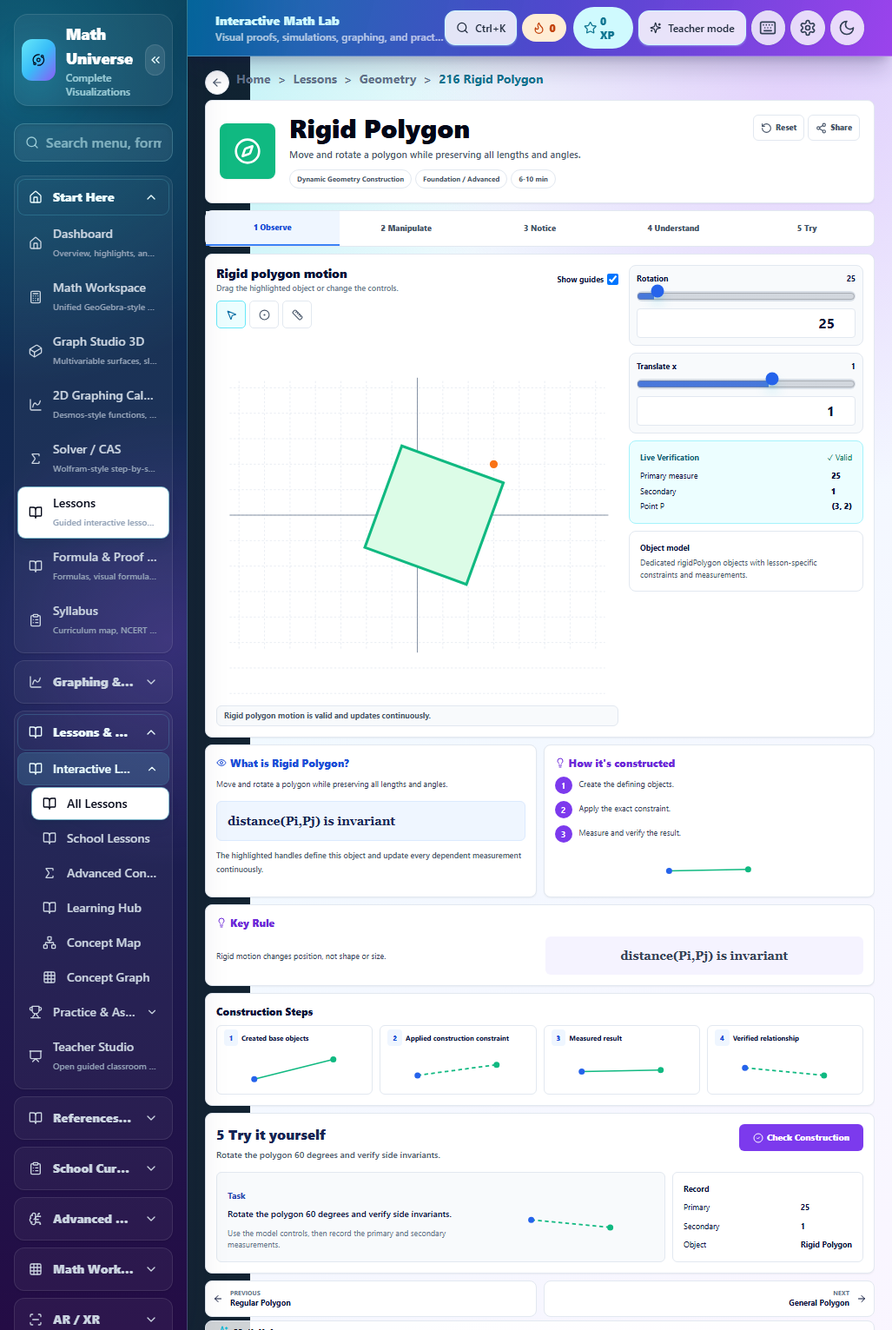
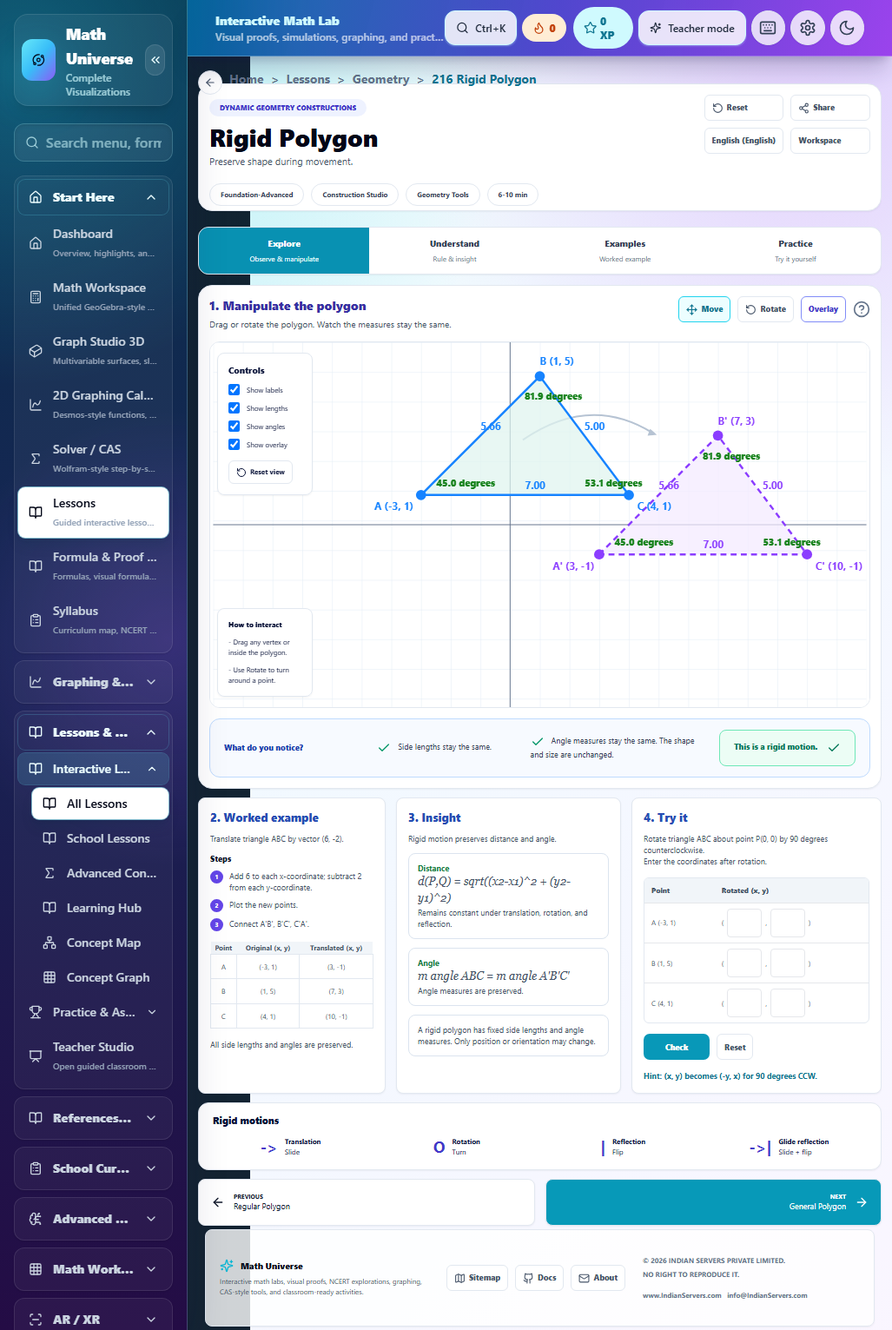
Rebuild rigid polygon lesson to match target UI

diff --git a/src/modules/lessons/adapters/RigidPolygonTargetLesson216.tsx b/src/modules/lessons/adapters/RigidPolygonTargetLesson216.tsx
@@ -1,0 +1,149 @@
+import {
+  ArrowLeft,
+  ArrowRight,
+  Check,
+  CircleHelp,
+  Move,
+  RotateCcw,
+  Share2,
+} from "lucide-react";
+import {
+  useEffect,
+  useMemo,
+  useState,
+  type PointerEvent as ReactPointerEvent,
+} from "react";
+import type { LessonAdapterProps } from "../types";
+
+type Point = { x: number; y: number };
+type Mode = "move" | "rotate";
+type Visibility = { labels: boolean; lengths: boolean; angles: boolean; overlay: boolean };
+type Drag = { start: Point; origin: Point; angle: number } | null;
+
+const original: Point[] = [{ x: -3, y: 1 }, { x: 1, y: 5 }, { x: 4, y: 1 }];
+const names = ["A", "B", "C"];
+const initialVisibility: Visibility = { labels: true, lengths: true, angles: true, overlay: true };
+
+export default function RigidPolygonTargetLesson216({ resetToken, onInteraction }: LessonAdapterProps) {
+  const [position, setPosition] = useState<Point>({ x: 0, y: 0 });
+  const [rotation, setRotation] = useState(0);
+  const [mode, setMode] = useState<Mode>("move");
+  const [visibility, setVisibility] = useState(initialVisibility);
+  const [drag, setDrag] = useState<Drag>(null);
+  const [answers, setAnswers] = useState(["", "", "", "", "", ""]);
+  const [feedback, setFeedback] = useState<"idle" | "correct" | "incorrect">("idle");
+
+  const model = useMemo(() => buildModel(position, rotation), [position, rotation]);
+  const reset = () => {
+    setPosition({ x: 0, y: 0 }); setRotation(0); setMode("move");
+    setVisibility(initialVisibility); setAnswers(["", "", "", "", "", ""]); setFeedback("idle"); onInteraction();
+  };
+  useEffect(() => {
+    setPosition({ x: 0, y: 0 }); setRotation(0); setMode("move");
+    setVisibility(initialVisibility); setAnswers(["", "", "", "", "", ""]); setFeedback("idle");
+  }, [resetToken]);
+
+  const toggle = (key: keyof Visibility) => { setVisibility((value) => ({ ...value, [key]: !value[key] })); onInteraction(); };
+  const check = () => {
+    const expected = [-1, -3, -5, 1, -1, 4];
+    setFeedback(answers.every((value, index) => Number(value) === expected[index]) ? "correct" : "incorrect");
+    onInteraction();
+  };
+
+  return <section
+    className="space-y-3"
+    style={{ marginTop: -25 }}
+    data-testid="dynamic-geometry-mockup-0273"
+    data-dedicated-lesson="216"
+    data-object-model="rigid-triangle-motion"
+    data-direct-interaction="true"
+    aria-label="Rigid Polygon dedicated interactive geometry model"
+  >
+    <span className="sr-only">Live Verification. Check Construction.</span>
+    <header className="h-[147px] rounded-2xl border border-slate-200 bg-white p-3 shadow-sm">
+      <div className="grid gap-4 lg:grid-cols-[1fr_auto]">
+        <div>
+          <p className="inline-block rounded-full bg-indigo-50 px-3 py-1 text-[8px] font-black uppercase text-indigo-700">Dynamic Geometry Constructions</p>
+          <h1 className="mt-2 text-[28px] font-black leading-8 text-slate-950">Rigid Polygon</h1>
+          <p className="mt-1 text-[11px] text-slate-600">Preserve shape during movement.</p>
+          <div className="mt-4 flex flex-wrap gap-2 text-[8px] font-bold text-slate-700">
+            {['Foundation-Advanced', 'Construction Studio', 'Geometry Tools', '6-10 min'].map((item) => <span key={item} className="rounded-full border border-slate-200 px-3 py-1.5">{item}</span>)}
+          </div>
+        </div>
+        <div className="grid grid-cols-2 content-start gap-2 text-[9px]">
+          <button type="button" className="target-geometry-action" onClick={reset}><RotateCcw />Reset</button>
+          <button type="button" className="target-geometry-action" onClick={() => { void navigator.clipboard?.writeText(location.href); onInteraction(); }}><Share2 />Share</button>
+          <button type="button" className="target-geometry-action">English (English)</button>
+          <a className="target-geometry-action" href="/workspace/geometry">Workspace</a>
+        </div>
+      </div>
+    </header>
+
+    <nav className="grid grid-cols-4 overflow-hidden rounded-xl border border-slate-200 bg-white shadow-sm" style={{ marginTop: 18 }}>
+      {[['Explore','Observe & manipulate'], ['Understand','Rule & insight'], ['Examples','Worked example'], ['Practice','Try it yourself']].map(([label, sub], index) => <button key={label} type="button" className={`h-[53px] text-[10px] font-black ${index === 0 ? 'bg-cyan-600 text-white' : 'text-slate-700'}`} onClick={() => { document.getElementById(`rigid-${index}`)?.scrollIntoView({ behavior: 'smooth', block: 'center' }); onInteraction(); }}><span className="block">{label}</span><span className={`mt-1 block text-[8px] font-normal ${index === 0 ? 'text-cyan-50' : 'text-slate-500'}`}>{sub}</span></button>)}
+    </nav>
+
+    <section id="rigid-0" className="rounded-2xl border border-slate-200 bg-white p-3 shadow-sm">
+      <div className="flex flex-wrap items-start justify-between gap-3">
+        <div><h2 className="text-[14px] font-black text-indigo-800">1. Manipulate the polygon</h2><p className="mt-1 text-[10px] text-slate-600">Drag or rotate the polygon. Watch the measures stay the same.</p></div>
+        <div className="flex items-center gap-2">
+          <ModeButton active={mode === 'move'} icon={<Move />} label="Move" onClick={() => setMode('move')} />
+          <ModeButton active={mode === 'rotate'} icon={<RotateCcw />} label="Rotate" onClick={() => setMode('rotate')} />
+          <button type="button" aria-pressed={visibility.overlay} className={`target-geometry-action ${visibility.overlay ? '!border-indigo-400 !text-indigo-700' : ''}`} onClick={() => toggle('overlay')}>Overlay</button>
+          <CircleHelp className="h-5 w-5 text-slate-500" />
+        </div>
+      </div>
+      <div className="relative mt-3 overflow-hidden rounded-xl border border-slate-200">
+        <div className="absolute left-2 top-3 z-10 w-[110px] rounded-lg border border-slate-200 bg-white/95 p-3 text-[8px] shadow-sm">
+          <p className="mb-2 text-[10px] font-black">Controls</p>
+          {([['labels','Show labels'], ['lengths','Show lengths'], ['angles','Show angles'], ['overlay','Show overlay']] as const).map(([key,label]) => <label key={key} className="mb-2 flex items-center gap-2"><input type="checkbox" checked={visibility[key]} onChange={() => toggle(key)} />{label}</label>)}
+          <button type="button" className="mt-1 rounded-md border border-slate-200 px-2 py-1.5 font-bold" onClick={reset}><RotateCcw className="mr-1 inline h-3 w-3" />Reset view</button>
+        </div>
+        <div className="absolute bottom-3 left-2 z-10 w-[110px] rounded-lg border border-slate-200 bg-white/95 p-3 text-[8px] shadow-sm">
+          <p className="font-black">How to interact</p><p className="mt-2">- Drag any vertex or inside the polygon.</p><p className="mt-2">- Use Rotate to turn around a point.</p>
+        </div>
+        <RigidCanvas model={model} visibility={visibility} mode={mode} drag={drag} onDrag={setDrag} onPosition={(point) => { setPosition(point); onInteraction(); }} onRotation={(angle) => { setRotation(angle); onInteraction(); }} />
+      </div>
+      <div className="mt-3 grid items-center gap-3 rounded-xl border border-blue-200 bg-blue-50/50 px-4 py-3 text-[9px] lg:grid-cols-[1fr_1fr_1.25fr_auto]">
+        <p className="font-black text-blue-800">What do you notice?</p><Invariant>Side lengths stay the same.</Invariant><Invariant>Angle measures stay the same. The shape and size are unchanged.</Invariant><p className="rounded-lg border border-emerald-300 bg-emerald-50 px-4 py-3 font-black text-emerald-700">This is a rigid motion. <Check className="ml-2 inline h-4 w-4" /></p>
+      </div>
+    </section>
+
+    <section className="grid gap-3 lg:grid-cols-[.9fr_1.08fr_1.2fr]" style={{ marginTop: 10 }}>
+      <article id="rigid-2" className="target-rigid-card"><h2>2. Worked example</h2><p>Translate triangle ABC by vector (6, -2).</p><h3>Steps</h3>{['Add 6 to each x-coordinate; subtract 2 from each y-coordinate.', 'Plot the new points.', "Connect A'B', B'C', C'A'."].map((step,index) => <p key={step} className="target-rigid-step"><b>{index+1}</b>{step}</p>)}<CoordinateTable /><p>All side lengths and angles are preserved.</p></article>
+      <article id="rigid-1" className="target-rigid-card"><h2>3. Insight</h2><p>Rigid motion preserves distance and angle.</p><div className="target-rigid-rule"><b>Distance</b><p className="font-serif text-[13px] italic">d(P,Q) = sqrt((x2-x1)^2 + (y2-y1)^2)</p><p>Remains constant under translation, rotation, and reflection.</p></div><div className="target-rigid-rule"><b>Angle</b><p className="font-serif text-[13px] italic">m angle ABC = m angle A'B'C'</p><p>Angle measures are preserved.</p></div><p className="target-rigid-rule">A rigid polygon has fixed side lengths and angle measures. Only position or orientation may change.</p></article>
+      <article id="rigid-3" className="target-rigid-card"><h2>4. Try it</h2><p>Rotate triangle ABC about point P(0, 0) by 90 degrees counterclockwise.</p><p>Enter the coordinates after rotation.</p><PracticeTable answers={answers} onChange={(index,value) => { setAnswers((current) => current.map((item,i) => i === index ? value : item)); setFeedback('idle'); onInteraction(); }} /><div className="flex gap-2"><button type="button" className="target-rigid-check" onClick={check}>Check</button><button type="button" className="target-geometry-action" onClick={() => { setAnswers(["", "", "", "", "", ""]); setFeedback('idle'); onInteraction(); }}>Reset</button></div><p className="mt-3 font-bold text-cyan-700">Hint: (x, y) becomes (-y, x) for 90 degrees CCW.</p>{feedback !== 'idle' && <p role="status" className={`mt-2 font-black ${feedback === 'correct' ? 'text-emerald-700' : 'text-rose-700'}`}>{feedback === 'correct' ? 'Correct rigid rotation.' : 'Check each coordinate pair.'}</p>}</article>
+    </section>
+
+    <section className="rounded-xl border border-slate-200 bg-white px-4 py-3 shadow-sm" style={{ marginTop: 10 }}><h2 className="text-[11px] font-black">Rigid motions</h2><div className="mt-2 grid grid-cols-4 gap-3 text-[8px]"><Motion name="Translation" hint="Slide" mark="->"/><Motion name="Rotation" hint="Turn" mark="O"/><Motion name="Reflection" hint="Flip" mark="|"/><Motion name="Glide reflection" hint="Slide + flip" mark="->|"/></div></section>
+    <nav className="grid grid-cols-2 gap-3" style={{ marginTop: 10 }} aria-label="Adjacent lessons"><a className="target-rigid-nav" href="/lessons/geometry/215-regular-polygon"><ArrowLeft /> <span><b>Previous</b>Regular Polygon</span></a><a className="target-rigid-nav is-next justify-end text-right" href="/lessons/geometry/217-general-polygon"><span><b>Next</b>General Polygon</span><ArrowRight /></a></nav>
+  </section>;
+}
+
+function RigidCanvas({ model, visibility, mode, drag, onDrag, onPosition, onRotation }: { model: ReturnType<typeof buildModel>; visibility: Visibility; mode: Mode; drag: Drag; onDrag: (drag: Drag) => void; onPosition: (point: Point) => void; onRotation: (angle: number) => void }) {
+  const domain = (event: ReactPointerEvent<SVGSVGElement>): Point => { const box = event.currentTarget.getBoundingClientRect(); return { x: -10 + ((event.clientX-box.left)/box.width)*22, y: 8 - ((event.clientY-box.top)/box.height)*15 }; };
+  const start = (event: ReactPointerEvent<SVGElement>) => { event.stopPropagation(); const plane = event.currentTarget.ownerSVGElement!; const p = domain({ ...event, currentTarget: plane } as ReactPointerEvent<SVGSVGElement>); plane.setPointerCapture(event.pointerId); onDrag({ start: p, origin: model.position, angle: model.rotation }); };
+  const move = (event: ReactPointerEvent<SVGSVGElement>) => { if (!drag) return; const p = domain(event); if (mode === 'move') onPosition({ x: drag.origin.x+p.x-drag.start.x, y: drag.origin.y+p.y-drag.start.y }); else { const c = model.centroid; const a0 = Math.atan2(drag.start.y-c.y, drag.start.x-c.x); const a1 = Math.atan2(p.y-c.y,p.x-c.x); onRotation(drag.angle+(a1-a0)*180/Math.PI); } };
+  return <svg className="h-[420px] w-full touch-none bg-white" viewBox="0 0 770 430" role="img" aria-label="Interactive rigid triangle plane with movable original and translated overlay" onPointerMove={move} onPointerUp={() => onDrag(null)} onPointerCancel={() => onDrag(null)}>
+    <defs><pattern id="rigid-grid" width="35" height="35" patternUnits="userSpaceOnUse"><path d="M35 0H0V35" fill="none" stroke="#e1ebf5" /></pattern></defs><rect width="770" height="430" fill="url(#rigid-grid)"/><line x1="0" y1="215" x2="770" y2="215" stroke="#64748b"/><line x1="350" y1="0" x2="350" y2="430" stroke="#64748b"/>
+    {visibility.overlay && <><path d="M365 115 Q445 60 520 108" fill="none" stroke="#b6c3d3" strokeWidth="2"/><path d="M515 102l8 7-11 1" fill="#b6c3d3"/><Triangle points={model.overlay} color="#8b3dff" fill="#f4eaff" dashed visibility={visibility} names={names.map(n => `${n}'`)} /></>}
+    <Triangle points={model.points} color="#1683ff" fill="#dff4ef" visibility={visibility} names={names} onPointerDown={start} />
+  </svg>;
+}
+
+function Triangle({ points, color, fill, dashed=false, visibility, names, onPointerDown }: { points: Point[]; color: string; fill: string; dashed?: boolean; visibility: Visibility; names: string[]; onPointerDown?: (event: ReactPointerEvent<SVGElement>) => void }) {
+  const px = (p: Point) => ({ x: 350+p.x*35, y: 215-p.y*35 }); const screen = points.map(px); const lengths = points.map((point,index) => distance(point, points[(index+1)%3])); const angles = points.map((point,index) => angle(points[(index+2)%3], point, points[(index+1)%3]));
+  return <g><polygon data-testid={dashed ? 'rigid-overlay-polygon' : 'rigid-original-polygon'} data-side-lengths={lengths.map(value => value.toFixed(4)).join(',')} points={screen.map(p => `${p.x},${p.y}`).join(' ')} fill={fill} fillOpacity=".72" stroke={color} strokeWidth="2.5" strokeDasharray={dashed ? '7 5' : undefined} className="cursor-move" onPointerDown={onPointerDown}/>{screen.map((p,index) => <g key={names[index]}><circle data-testid={!dashed ? `rigid-vertex-${names[index].toLowerCase()}` : undefined} cx={p.x} cy={p.y} r="6" fill={color} className="cursor-move" onPointerDown={onPointerDown}/>{visibility.labels && <text x={p.x+(index===1?0:index===0?-55:10)} y={p.y+(index===1?-13:18)} fontSize="12" fontWeight="700" fill={color}>{names[index]} ({format(points[index].x)}, {format(points[index].y)})</text>}{visibility.lengths && <text x={(p.x+screen[(index+1)%3].x)/2} y={(p.y+screen[(index+1)%3].y)/2-7} fontSize="12" fontWeight="700" fill={color}>{lengths[index].toFixed(2)}</text>}{visibility.angles && <text x={p.x+(index===1?-18:index===0?18:-52)} y={p.y+(index===1?28:-10)} fontSize="11" fontWeight="800" fill="#18831d">{angles[index].toFixed(1)} degrees</text>}</g>)}</g>;
+}
+
+function buildModel(position: Point, rotation: number) { const centroid0 = centroid(original); const points = original.map((p) => { const r = rotate(p,centroid0,rotation); return { x:r.x+position.x,y:r.y+position.y }; }); return { points, overlay: points.map(p => ({ x:p.x+6,y:p.y-2 })), position, rotation, centroid: centroid(points) }; }
+function rotate(point: Point, center: Point, degrees: number): Point { const r=degrees*Math.PI/180, x=point.x-center.x, y=point.y-center.y; return { x:center.x+x*Math.cos(r)-y*Math.sin(r), y:center.y+x*Math.sin(r)+y*Math.cos(r) }; }
+function centroid(points: Point[]): Point { return { x:points.reduce((s,p)=>s+p.x,0)/points.length, y:points.reduce((s,p)=>s+p.y,0)/points.length }; }
+function distance(a:Point,b:Point){return Math.hypot(b.x-a.x,b.y-a.y)}
+function angle(a:Point,b:Point,c:Point){const u={x:a.x-b.x,y:a.y-b.y},v={x:c.x-b.x,y:c.y-b.y}; return Math.acos(Math.max(-1,Math.min(1,(u.x*v.x+u.y*v.y)/(Math.hypot(u.x,u.y)*Math.hypot(v.x,v.y)))))*180/Math.PI}
+function format(value:number){return Number(value.toFixed(1)).toString()}
+function ModeButton({ active, icon, label, onClick }:{active:boolean;icon:React.ReactNode;label:string;onClick:()=>void}){return <button type="button" aria-pressed={active} className={`target-geometry-action ${active?'!border-cyan-400 !bg-cyan-50 !text-cyan-700':''}`} onClick={()=>{onClick()}}>{icon}{label}</button>}
+function Invariant({children}:{children:React.ReactNode}){return <p className="text-slate-700"><Check className="mr-2 inline h-4 w-4 text-emerald-600"/>{children}</p>}
+function CoordinateTable(){const rows=[['A','(-3, 1)','(3, -1)'],['B','(1, 5)','(7, 3)'],['C','(4, 1)','(10, -1)']];return <table className="my-3 w-full border-collapse text-center text-[8px]"><thead><tr className="bg-slate-100"><th>Point</th><th>Original (x, y)</th><th>Translated (x, y)</th></tr></thead><tbody>{rows.map(r=><tr key={r[0]}>{r.map(c=><td key={c} className="border border-slate-200 px-1 py-2">{c}</td>)}</tr>)}</tbody></table>}
+function PracticeTable({answers,onChange}:{answers:string[];onChange:(index:number,value:string)=>void}){return <div className="my-3 overflow-hidden rounded-md border border-slate-200 text-[8px]"><div className="grid grid-cols-[.5fr_1fr] bg-slate-100 px-2 py-2 font-black"><span>Point</span><span>Rotated (x, y)</span></div>{['A (-3, 1)','B (1, 5)','C (4, 1)'].map((label,row)=><div key={label} className="grid grid-cols-[.5fr_1fr] items-center border-t px-2 py-1.5"><span>{label}</span><span className="flex items-center gap-1">(<input aria-label={`${names[row]} rotated x`} className="w-10 rounded border px-1 py-1" value={answers[row*2]} onChange={e=>onChange(row*2,e.target.value)}/>,<input aria-label={`${names[row]} rotated y`} className="w-10 rounded border px-1 py-1" value={answers[row*2+1]} onChange={e=>onChange(row*2+1,e.target.value)}/>)</span></div>)}</div>}
+function Motion({name,hint,mark}:{name:string;hint:string;mark:string}){return <div className="flex items-center justify-center gap-2"><b className="text-[18px] text-indigo-700">{mark}</b><span><strong className="block">{name}</strong>{hint}</span></div>}

diff --git a/src/components/layout/AppLayout.tsx b/src/components/layout/AppLayout.tsx
@@ -51,6 +51,8 @@ function AppFooter() {
     location.pathname === "/lessons/geometry/214-triangle-constructor";
   const isRegularPolygonTarget =
     location.pathname === "/lessons/geometry/215-regular-polygon";
+  const isRigidPolygonTarget =
+    location.pathname === "/lessons/geometry/216-rigid-polygon";
   const isCompassTarget = location.pathname === "/lessons/geometry/221-compass";
   const usesTargetCompactFooter =
     isRightTriangleTarget ||
@@ -60,6 +62,7 @@ function AppFooter() {
       "/lessons/geometry/212-tangent",
       "/lessons/geometry/214-triangle-constructor",
       "/lessons/geometry/215-regular-polygon",
+      "/lessons/geometry/216-rigid-polygon",
     ].includes(location.pathname) &&
       /^\/lessons\/geometry\/2(?:0[6-9]|[12][0-9]|3[0-5])-/.test(
         location.pathname,
@@ -125,13 +128,13 @@ function AppFooter() {
       </footer>
     );
   }
-  if (isRegularPolygonTarget) {
+  if (isRegularPolygonTarget || isRigidPolygonTarget) {
     return (
       <footer
-        className="mx-auto h-[142px] w-full max-w-[1440px] px-5 pt-[22px]"
+        className={`mx-auto w-full max-w-[1440px] px-5 ${isRigidPolygonTarget ? "h-[120px] pt-1" : "h-[142px] pt-[22px]"}`}
         aria-label="Site footer"
       >
-        <div className="grid h-[90px] grid-cols-[minmax(0,1fr)_auto_250px] items-center gap-5 rounded-lg border border-slate-200 bg-white/80 px-4 shadow-sm">
+        <div className={`grid grid-cols-[minmax(0,1fr)_auto_250px] items-center gap-5 rounded-lg border border-slate-200 bg-white/80 px-4 shadow-sm ${isRigidPolygonTarget ? "h-[112px]" : "h-[90px]"}`}>
           <div className="min-w-0">
             <p className="flex items-center gap-2 text-[10px] font-black text-slate-950">
               <Sparkles className="h-4 w-4 text-cyan-500" /> Math Universe
@@ -263,6 +266,8 @@ export default function AppLayout() {
     location.pathname === "/math/integration/formula-visualizer";
   const currentMathWorkspace = findMathWorkspace(location.pathname);
   const isCompassTarget = location.pathname === "/lessons/geometry/221-compass";
+  const isRigidPolygonTarget =
+    location.pathname === "/lessons/geometry/216-rigid-polygon";
 
   useEffect(() => {
     setMobileOpen(false);
@@ -389,7 +394,7 @@ export default function AppLayout() {
           <main
             ref={mainContentRef}
             id="main-content"
-            className={`app-fullscreen-target mx-auto w-full max-w-[1440px] flex-1 pb-24 pt-2 md:pb-0 md:pt-4 ${isCompassTarget ? "px-3" : "px-2 sm:px-4 md:px-5"}`}
+            className={`app-fullscreen-target mx-auto w-full max-w-[1440px] flex-1 pb-24 pt-2 md:pb-0 md:pt-4 ${isCompassTarget || isRigidPolygonTarget ? "px-3" : "px-2 sm:px-4 md:px-5"}`}
           >
             {!location.pathname.startsWith("/lessons/") && (
               <button

diff --git a/src/index.css b/src/index.css
@@ -84,6 +84,102 @@
   color: #0369a1;
 }
 
+.target-rigid-card {
+  min-height: 322px;
+  border: 1px solid #e2e8f0;
+  border-radius: 8px;
+  background: #fff;
+  padding: 13px;
+  color: #475569;
+  font-size: 9px;
+  line-height: 1.45;
+  box-shadow: 0 1px 2px rgb(15 23 42 / 0.05);
+}
+
+.target-rigid-card h2 {
+  margin-bottom: 8px;
+  color: #264db4;
+  font-size: 13px;
+  font-weight: 900;
+}
+
+.target-rigid-card h3 {
+  margin-top: 10px;
+  margin-bottom: 7px;
+  color: #0f172a;
+  font-weight: 900;
+}
+
+.target-rigid-step {
+  display: flex;
+  gap: 7px;
+  margin-top: 7px;
+}
+
+.target-rigid-step b {
+  display: grid;
+  width: 15px;
+  height: 15px;
+  flex: none;
+  place-items: center;
+  border-radius: 999px;
+  background: #6446e8;
+  color: white;
+  font-size: 7px;
+}
+
+.target-rigid-rule {
+  margin-top: 10px;
+  border: 1px solid #dbe4ef;
+  border-radius: 8px;
+  padding: 10px;
+}
+
+.target-rigid-rule b {
+  color: #16803b;
+}
+
+.target-rigid-check {
+  min-width: 76px;
+  border-radius: 7px;
+  background: #0898b8;
+  padding: 7px 12px;
+  color: white;
+  font-size: 9px;
+  font-weight: 900;
+}
+
+.target-rigid-nav {
+  display: flex;
+  height: 54px;
+  align-items: center;
+  gap: 10px;
+  border: 1px solid #e2e8f0;
+  border-radius: 8px;
+  background: white;
+  padding: 8px 14px;
+  color: #0f172a;
+  font-size: 9px;
+  box-shadow: 0 1px 2px rgb(15 23 42 / 0.05);
+}
+
+.target-rigid-nav svg {
+  width: 16px;
+  height: 16px;
+}
+
+.target-rigid-nav b {
+  display: block;
+  color: inherit;
+  font-size: 7px;
+  text-transform: uppercase;
+}
+
+.target-rigid-nav.is-next {
+  background: #0799b8;
+  color: white;
+}
+
 :root {
   color-scheme: light;
   font-synthesis: none;

diff --git a/src/modules/lessons/adapters/Geometry2DLessonAdapter.test.tsx b/src/modules/lessons/adapters/Geometry2DLessonAdapter.test.tsx
@@ -518,6 +518,23 @@ describe("Geometry2DLessonAdapter", () => {
     expect(html).not.toContain("Compass transfer model");
   });
 
+  it("renders Rigid Polygon with a triangle rigid-body motion model", () => {
+    const lesson = lessonCatalog.find((item) => item.id === 216)!;
+    const html = renderToStaticMarkup(
+      <Geometry2DLessonAdapter lesson={lesson} resetToken={0} onInteraction={vi.fn()} />,
+    );
+
+    expect(html).toContain("Interactive rigid triangle plane with movable original and translated overlay");
+    expect(html).toContain('data-testid="rigid-original-polygon"');
+    expect(html).toContain('data-testid="rigid-overlay-polygon"');
+    expect(html).toContain('data-testid="rigid-vertex-a"');
+    expect(html).toContain("Side lengths stay the same.");
+    expect(html).toContain("Rotate triangle ABC about point P(0, 0) by 90 degrees counterclockwise.");
+    expect(html).toContain('aria-label="A rotated x"');
+    expect(html).not.toContain('aria-label="Rotation"');
+    expect(html).not.toContain('aria-label="Translate x"');
+  });
+
   it("renders geometry lessons 236 through 245 with transformation guidance", () => {
     const expectedSnippets: Record<number, string> = {
       236: "Translation by vector",

diff --git a/src/modules/lessons/adapters/GeometryTargetLessons206to235.tsx b/src/modules/lessons/adapters/GeometryTargetLessons206to235.tsx
@@ -29,6 +29,7 @@ import TangentTargetLesson from "./TangentTargetLesson212";
 import BestFitLineTargetLesson from "./BestFitLineTargetLesson213";
 import TriangleConstructorTargetLesson from "./TriangleConstructorTargetLesson214";
 import RegularPolygonTargetLesson from "./RegularPolygonTargetLesson215";
+import RigidPolygonTargetLesson from "./RigidPolygonTargetLesson216";
 import CompassTargetLesson from "./CompassTargetLesson221";
 import RayTargetLesson from "./RayTargetLesson206";
 
@@ -539,8 +540,7 @@ function named(id: number) {
     <DedicatedGeometrySurface {...props} spec={specs[id]} />
   );
 }
-export const RigidPolygonTargetLesson = named(216),
-  GeneralPolygonTargetLesson = named(217),
+export const GeneralPolygonTargetLesson = named(217),
   CircleCentrePointTargetLesson = named(218),
   CircleCentreRadiusTargetLesson = named(219),
   CircleThreePointsTargetLesson = named(220),

diff --git a/test-evidence/lesson-ui-upgrade/0263-0292-dynamic-geometry-progress-note.md b/test-evidence/lesson-ui-upgrade/0263-0292-dynamic-geometry-progress-note.md
@@ -25,7 +25,7 @@ Updated 2026-08-24. This batch replaces the generic construction fallback for le
 | 0270 | 213 Best Fit Line | `bestFit` | Implemented and browser-validated |
 | 0271 | 214 Triangle Constructor | `triangle` | Implemented and browser-validated |
 | 0272 | 215 Regular Polygon | `regularPolygon` | Implemented and browser-validated |
-| 0273 | 216 Rigid Polygon | `rigidPolygon` | Implemented and browser-validated |
+| 0273 | 216 Rigid Polygon | `rigidTriangleMotion` | Reworked individually and browser-validated |
 | 0274 | 217 General Polygon | `generalPolygon` | Implemented and browser-validated |
 | 0275 | 218 Circle Centre and Point | `circlePoint` | Implemented and browser-validated |
 | 0276 | 219 Circle Centre and Radius | `circleRadius` | Implemented and browser-validated |
@@ -94,6 +94,10 @@ Reworked individually against the target mockup. Removed the generic Apex x and 
 ### Lesson 215 / Mockup 0272 - Regular Polygon
 
 Reworked individually against the target mockup. Replaced the shared Sides n and Radius sliders with a generated vertex collection whose vertices are rotations of a first radius by 360 degrees divided by n. The center O and every generated vertex are directly draggable: moving O translates the construction, while moving a vertex updates radius and orientation without breaking equal sides or angles. Side count, radius, rotation, center placement, radii, grid, vertex, circumcircle, symmetry-axis, label, and fullscreen controls are functional. Central and interior angles, side length, apothem, perimeter, area, symmetry counts, coordinate labels, and construction formulas are derived from the same model. The octagon practice form numerically validates side length, perimeter, and area. Final exact-viewport check at 1027x1532 exercises both drag dependencies, n/r regeneration, rotation, center placement, all visibility controls, hint, and practice grading with no overflow or console errors; the page and three-column footer fit without scrolling.
+
+### Lesson 216 / Mockup 0273 - Rigid Polygon
+
+Reworked individually against the target mockup. Removed the generic quadrilateral, Rotation and Translate x sliders, repeated definition/rule cards, generic construction strip, and template verification record. The dedicated surface owns triangle ABC, a dependent translated copy A'B'C', rigid-body position and rotation, and visibility state for labels, lengths, angles, and overlay. Dragging the triangle in Move mode translates every vertex equally; dragging a vertex in Rotate mode turns the complete triangle around its centroid. Both transformations preserve the three computed side lengths byte-for-byte, and the overlay remains the exact vector (6, -2) image. The worked coordinate table, distance and angle invariants, rigid-motion taxonomy, adjacent navigation, and six-field 90-degree counterclockwise practice check match the target structure. The mockup labels two sides as 4.47 despite its stated coordinates producing 5.66 and 5.00; the implementation intentionally displays the correct live Euclidean calculations. Final 1027x1531 browser validation exercises translation, rotation, every visibility control, reset, and all practice fields, verifies the invariant data before and after both drags, reports no overflow or console errors, and fits the complete footer without scrolling.
 
 ### Lesson 221 / Mockup 0278 - Compass
 
